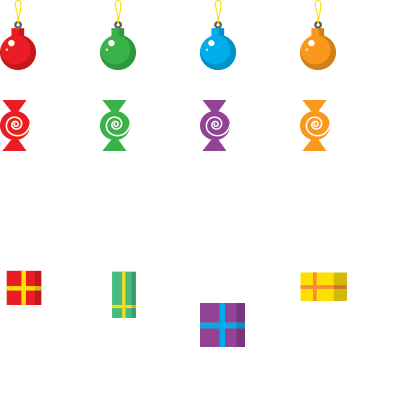
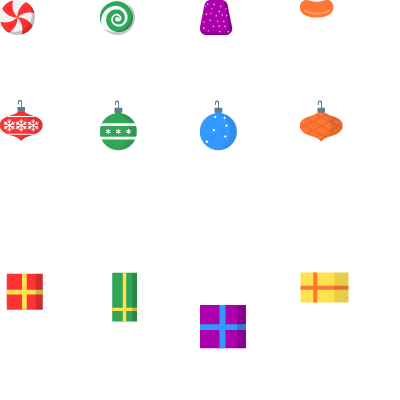
Elf Jetpack: Updates (#9)
* Update jetpack items

* Fix items asset url

* Update goal asset

* Update loading asset

* Update logo asset

* Fix item positioning

* Update static player states

* Add new cloud types

* Add new bird animation

* Add player flying up state

* Add faster speed for spikey item

* Increase player hit area

diff --git a/scenes/jetpack/sass/_items.scss b/scenes/jetpack/sass/_items.scss
@@ -41,51 +41,64 @@
     width: 70px;
   }
 
-  .item-ball {
-    height: 70px;
-    margin-left: -18px;
-    margin-top: -52px;
-    width: 36px;
-  }
+  .item-ball {}
 
   .item-ball--1 {
-    background-position: 0 0;
+    background-position: 0 -100px;
+    height: 41px;
+    margin-left: -22px;
+    margin-top: -21px;
+    width: 43px;
   }
 
   .item-ball--2 {
-    background-position: -100px 0;
+    background-position: -100px -100px;
+    height: 51px;
+    margin-left: -19px;
+    margin-top: -26px;
+    width: 37px;
   }
 
   .item-ball--3 {
-    background-position: -100px 0;
+    background-position: -200px -100px;
+    height: 51px;
+    margin-left: -19px;
+    margin-top: -26px;
+    width: 37px;
   }
 
   .item-ball--4 {
-    background-position: -200px 0;
+    background-position: -300px -100px;
+    height: 41px;
+    margin-left: -22px;
+    margin-top: -21px;
+    width: 43px;
   }
 
   .item-candy {
     animation: 1s #{$name}-candySpin linear infinite;
-    height: 51px;
-    margin-left: -15px;
-    margin-top: -25px;
-    width: 30px;
+    height: 35px;
+    margin-left: -18px;
+    margin-top: -18px;
+    width: 35px;
   }
 
   .item-candy--1 {
-    background-position: 0 -100px;
+    background-position: 0 0;
   }
 
   .item-candy--2 {
-    background-position: -100px -100px;
+    background-position: -100px 0;
   }
 
   .item-candy--3 {
-    background-position: -100px -100px;
+    background-position: -200px 0;
   }
 
   .item-candy--4 {
-    background-position: -200px -100px;
+    background-position: -300px 0;
+    height: 18px;
+    margin-top: 9px;
   }
 
   .item-present {
@@ -95,34 +108,34 @@
 
   .item-present--1 {
     background-position: 0 -200px;
-    height: 105px;
-    margin-left: -24px;
-    margin-top: -88px;
-    width: 47px;
+    height: 110px;
+    margin-left: -25px;
+    margin-top: -94px;
+    width: 49px;
   }
 
   .item-present--2 {
     background-position: -100px -200px;
-    height: 118px;
-    margin-left: -24px;
-    margin-top: -94px;
-    width: 47px;
+    height: 122px;
+    margin-left: -25px;
+    margin-top: -95px;
+    width: 49px;
   }
 
   .item-present--3 {
     background-position: -200px -200px;
-    height: 147px;
-    margin-left: -24px;
-    margin-top: -125px;
-    width: 45px;
+    height: 148px;
+    margin-left: -23px;
+    margin-top: -128px;
+    width: 46px;
   }
 
   .item-present--4 {
     background-position: -300px -200px;
-    height: 101px;
-    margin-left: -24px;
-    margin-top: -86px;
-    width: 48px;
+    height: 103px;
+    margin-left: -25px;
+    margin-top: -89px;
+    width: 49px;
   }
 
   .item > .item-danger--1 {}
@@ -133,21 +146,19 @@
     width: 45px;
   }
 
-  .item > .item-danger--3 {
-    background-position: -90px -68px;
-    height: 55px;
+  .item > .item-danger--3,
+  .item > .item-danger--4 {
+    animation: #{$name}-birdFly 0.6s steps(4) infinite;
+    background-image: url(img/birds.png);
+    background-repeat: no-repeat;
+    height: 100px;
     margin-left: -43px;
-    margin-top: -27px;
+    margin-top: -50px;
     width: 86px;
   }
 
   .item > .item-danger--4 {
-    background-position: -90px -68px;
-    height: 55px;
-    margin-left: -43px;
-    margin-top: -27px;
     transform: scaleX(-1);
-    width: 86px;
   }
 }
 
@@ -176,5 +187,15 @@
 
   100% {
     transform: rotate(3deg);
+  }
+}
+
+@keyframes #{$name}-birdFly {
+  0% {
+    background-position: 0px 0px;
+  }
+
+  100% {
+    background-position: 0px -400px;
   }
 }

diff --git a/scenes/jetpack/sass/_player.scss b/scenes/jetpack/sass/_player.scss
@@ -2,35 +2,40 @@
   .player {
     background-image: url(img/player.png);
     background-repeat: no-repeat;
-    height: 149px;
+    height: 216px;
     left: 50%;
-    margin-left: -58px;
-    margin-top: -70px;
-    transform-origin: center 47%;
+    margin-left: -43px;
+    margin-top: -104px;
+    transform-origin: center 48%;
     position: absolute;
     top: 75%;
-    width: 116px;
+    width: 86px;
+  }
+
+  .player--up {
+    background-position: -100px 0px;
   }
 
   .player--hit {
     background-image: url(img/player-hit.svg);
-    height: 236px;
-    margin-left: -111px;
-    margin-top: -150px;
-    padding-top: 90px;
-    width: 223px;
+    height: 215px;
+    margin-left: -94px;
+    margin-top: -111px;
+    padding-left: 4px;
+    padding-top: 8px;
+    width: 180px;
   }
 
   .player-overlay {
     animation: #{$name}-playerHit 300ms linear infinite alternate;
     background-image: url(img/player-overlay.svg);
     display: none;
-    height: 175px;
-    left: 21px;
+    height: 215px;
+    left: 0;
     position: absolute;
     opacity: 0.8;
-    top: 63px;
-    width: 186px;
+    top: 0;
+    width: 180px;
   }
 
   .player--hit .player-overlay {
@@ -39,7 +44,7 @@
 
   .fire {
     height: 98px;
-    margin: 102px auto 0;
+    margin: 131px auto 0;
     position: relative;
     transition: all 0.20s;
     transform-origin: center top;
@@ -93,14 +98,14 @@
   }
 
   .sparkles {
-    left: 40px;
+    left: 28px;
     position: absolute;
     top: 140px;
   }
 
   .player--hit .sparkles {
-    left: 95px;
-    top: 230px;
+    left: 79px;
+    top: 147px;
   }
 
   .sparkle:nth-child(1) {

diff --git a/scenes/jetpack/js/constants.js b/scenes/jetpack/js/constants.js
@@ -39,6 +39,7 @@ app.Constants = {
 
   ITEM_SPEED_NORMAL: 75,
   ITEM_SPEED_FAST: 150,
+  ITEM_SPEED_FASTER: 225,
   ITEM_SCORE_NORMAL: 50,
   ITEM_SCORE_FAST: 75,
   ITEM_TIME_NORMAL: 5.0,
@@ -51,7 +52,7 @@ app.Constants = {
   DANGER_SCORE_RETRACTION_FAST: -10,
   DANGER_SCORE_RETRACTION_SLOW: -5,
 
-  ITEM_MIN_DISTANCE: 60, // pixels from player center to be considered caught
+  ITEM_MIN_DISTANCE: 75, // pixels from player center to be considered caught
 
   COUNTDOWN_TRACK_LENGTH: 60, // in seconds
   COUNTDOWN_TRACK_MAX_X: 150, // pixels
@@ -131,8 +132,8 @@ app.Constants = {
    * @type {Array.<Constants.DangerType>}
    */
   DANGER_TYPES: [
-    {css: 'item-danger item-danger--1', weight: 1, fast: true},
-    {css: 'item-danger item-danger--2', weight: 2, fast: false},
+    {css: 'item-danger item-danger--1', weight: 1, faster: true},
+    {css: 'item-danger item-danger--2', weight: 2, fast: true},
     {css: 'item-danger item-danger--3', weight: 1.5, fast: false},
     {css: 'item-danger item-danger--4', weight: 1.5, fast: false}
   ]

diff --git a/scenes/jetpack/js/player.js b/scenes/jetpack/js/player.js
@@ -54,7 +54,9 @@ app.Player.prototype.reset = function() {
   this.shake = 0;
   this.isHit = false;
   this.hitDuration = 0;
+  this.isGoingUp = false;
   this.elem.removeClass('player--hit');
+  this.elem.removeClass('player--up');
 
   // Sound state
   this.soundFrameCounter = 0;
@@ -134,6 +136,15 @@ app.Player.prototype.onFrame = function(delta) {
       'translate3D(' + this.x + 'px,' + this.y + 'px,0) ' +
       'rotate(' + rotation + 'deg)');
   this.fireElem.css('transform', 'translateZ(0) scale(' + fireScale + ')');
+
+  // Update sprite state
+  if (nInputY === -1 && !this.isGoingUp) {
+    this.isGoingUp = true;
+    this.elem.addClass('player--up');
+  } else if (this.isGoingUp && nInputY > -1) {
+    this.isGoingUp = false;
+    this.elem.removeClass('player--up');
+  }
 
   // See if we cought any items.
   this.checkCollisions_();

diff --git a/scenes/jetpack/sass/_environment.scss b/scenes/jetpack/sass/_environment.scss
@@ -1,10 +1,29 @@
 ##{$name} {
   .cloud {
-    background-image: url(img/cloud.png);
-    height: 110px;
-    margin-left: -91px;
-    margin-top: 55px;
+    background-image: url(img/clouds.png);
     position: absolute;
-    width: 183px;
+  }
+
+  .cloud--0 {
+    height: 68px;
+    margin-left: -70px;
+    margin-top: 34px;
+    width: 140px;
+  }
+
+  .cloud--1 {
+    background-position: -150px 0px;
+    height: 81px;
+    margin-left: -65px;
+    margin-top: 41px;
+    width: 130px;
+  }
+
+  .cloud--2 {
+    background-position: -300px 0px;
+    height: 81px;
+    margin-left: -68px;
+    margin-top: 41px;
+    width: 135px;
   }
 }

diff --git a/scenes/jetpack/js/item.js b/scenes/jetpack/js/item.js
@@ -78,7 +78,7 @@ app.Item.prototype.reset = function() {
   this.subElem.attr('class', this.type.css);
 
   // Figure out the speed
-  this.speed = (this.type.fast ? app.Constants.ITEM_SPEED_FAST : app.Constants.ITEM_SPEED_NORMAL);
+  this.speed = (this.type.faster ? app.Constants.ITEM_SPEED_FASTER : this.type.fast ? app.Constants.ITEM_SPEED_FAST : app.Constants.ITEM_SPEED_NORMAL);
   this.speed *= Math.pow(app.Constants.ITEM_SPEED_MULTIPLY_EACH_LEVEL, this.game.level);
 
   // Initial placement

diff --git a/scenes/jetpack/sass/_goal.scss b/scenes/jetpack/sass/_goal.scss
@@ -1,14 +1,14 @@
 ##{$name} {
   .goal {
     background: url(img/goal.png) no-repeat top right / contain;
-    height: 415px;
+    height: 412px;
     max-width: 50%;
     position: absolute;
     right: 0;
     top: 0;
     transform: translate3d(0, -100%, 0);
     transition: transform 3s linear;
-    width: 454px;
+    width: 452px;
     z-index: 2;
   }
 

diff --git a/scenes/jetpack/js/cloud.js b/scenes/jetpack/js/cloud.js
@@ -72,6 +72,7 @@ app.Cloud.prototype.onInit = function() {
   this.y = -150;
 
   this.elem.css('left', Math.random() * this.game.sceneSize.width);
+  this.elem.addClass('cloud--' + type);
 };
 
 
